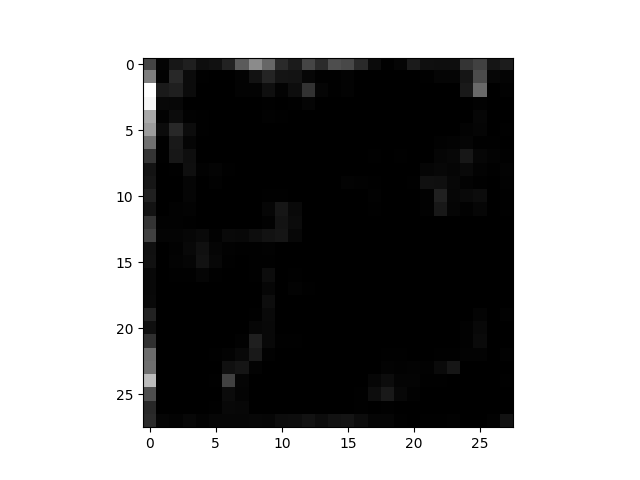
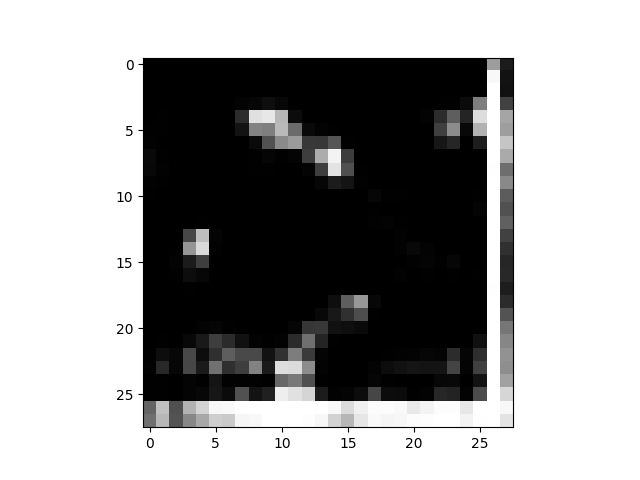
The 10,000 epochs do not learn well

diff --git a/sample-training/gan_mnist/train.py b/sample-training/gan_mnist/train.py
@@ -67,7 +67,7 @@ X_train = np.expand_dims(X_train, axis=3)
 batch_size = 64
 
 # 無限ループで学習
-for epoch in range(1000):
+for epoch in range(10000):
     # ランダムなノイズを生成
     noise = np.random.normal(0, 1, (batch_size, noise_dim))
     
